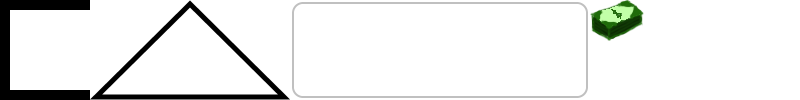
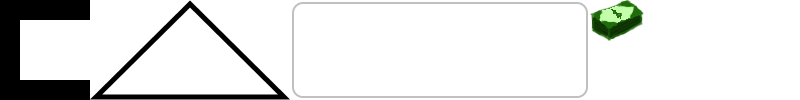
Entities refactor

Changed region(s): [[0.0, 0.09, 0.125, 0.9]]

diff --git a/core/src/com/frontanilla/farminghappyness/game/entities/plants/Plant.java b/core/src/com/frontanilla/farminghappyness/game/entities/plants/Plant.java
@@ -1,14 +1,15 @@
-package com.frontanilla.farminghappyness.game.plants;
+package com.frontanilla.farminghappyness.game.entities.plants;
 
 import com.badlogic.gdx.graphics.Color;
 import com.badlogic.gdx.graphics.g2d.SpriteBatch;
 import com.badlogic.gdx.graphics.g2d.TextureRegion;
 import com.badlogic.gdx.math.Rectangle;
-import com.frontanilla.farminghappyness.game.areas.Tile;
-import com.frontanilla.farminghappyness.game.other.Progressable;
+import com.frontanilla.farminghappyness.components.Tile;
+import com.frontanilla.farminghappyness.game.entities.Progressable;
 import com.frontanilla.farminghappyness.utils.Assets;
 import com.frontanilla.farminghappyness.utils.Enums.PlantType;
 
+import static com.frontanilla.farminghappyness.utils.Constants.PLANT_PRODUCTION_TIME;
 import static com.frontanilla.farminghappyness.utils.Constants.PLANT_SIZE;
 import static com.frontanilla.farminghappyness.utils.Constants.PLANT_TILE_SPACING;
 
@@ -19,8 +20,6 @@ public class Plant extends Progressable {
     // Plant
     private PlantType plantType;
     private int buyCost, sellCost;
-    // Logic
-    private float time;
     // Plants
     public static Plant ELSKER = new Plant(PlantType.ELSKER, 1, 2);
     public static Plant GRA = new Plant(PlantType.GRA, 1, 2);
@@ -34,7 +33,7 @@ public class Plant extends Progressable {
     public static Plant KAERLIGHED = new Plant(PlantType.KAERLIGHED, 1, 5);
 
     private Plant(PlantType plantType, int buyCost, int sellCost) {
-        super(new Rectangle());
+        super(new Rectangle(), PLANT_PRODUCTION_TIME);
         switch (plantType) {
             case ELSKER:
                 textureRegion = Assets.plantTest;
@@ -73,7 +72,7 @@ public class Plant extends Progressable {
     }
 
     public Plant(Plant plant, Tile tile) {
-        super(new Rectangle(tile.getX() + PLANT_TILE_SPACING, tile.getY() + PLANT_TILE_SPACING, PLANT_SIZE, PLANT_SIZE));
+        super(new Rectangle(tile.getX() + PLANT_TILE_SPACING, tile.getY() + PLANT_TILE_SPACING, PLANT_SIZE, PLANT_SIZE), PLANT_PRODUCTION_TIME);
         // Structure
         textureRegion = plant.textureRegion;
         // Plant
@@ -81,12 +80,11 @@ public class Plant extends Progressable {
         buyCost = plant.buyCost;
         sellCost = plant.sellCost;
         // Logic
-        time = 0;
+        progress = 0;
     }
 
     public void update(float delta) {
-        time += delta;
-        progress = Math.min(progress + 1, 100);
+        progress = Math.min(progress + delta, maxProgress);
     }
 
     public void render(SpriteBatch batch) {

diff --git a/core/src/com/frontanilla/farminghappyness/components/ProgressBar.java b/core/src/com/frontanilla/farminghappyness/components/ProgressBar.java
@@ -2,7 +2,7 @@ package com.frontanilla.farminghappyness.components;
 
 import com.badlogic.gdx.graphics.Color;
 import com.badlogic.gdx.graphics.g2d.SpriteBatch;
-import com.frontanilla.farminghappyness.game.other.Progressable;
+import com.frontanilla.farminghappyness.game.entities.Progressable;
 import com.frontanilla.farminghappyness.utils.Assets;
 
 import static com.frontanilla.farminghappyness.utils.Constants.PROGRESS_BAR_HEIGHT;
@@ -15,7 +15,7 @@ public class ProgressBar {
 
     public ProgressBar(Progressable progressable) {
         this.progressable = progressable;
-        portionWidth = (progressable.getBounds().width - PROGRESS_BAR_SIDES_WIDTH * 2) / 100;
+        portionWidth = (progressable.getBounds().width - PROGRESS_BAR_SIDES_WIDTH * 2) / progressable.getMaxProgress();
     }
 
     public void render(SpriteBatch batch) {
@@ -26,9 +26,9 @@ public class ProgressBar {
                 progressable.getBounds().getY() + progressable.getBounds().height,
                 PROGRESS_BAR_SIDES_WIDTH,
                 PROGRESS_BAR_HEIGHT);
-        // Center TODO, draw this according to Progress
+        // Center
+        batch.setColor(Color.CYAN);
         for (int i = 0; i < progressable.getProgress(); i++) {
-            batch.setColor(Color.CYAN);
             batch.draw(
                     Assets.centerLifeBar,
                     progressable.getBounds().getX() + PROGRESS_BAR_SIDES_WIDTH + portionWidth * i,
@@ -39,7 +39,7 @@ public class ProgressBar {
         // Right side
         batch.draw(
                 Assets.barSides,
-                progressable.getBounds().getX() + progressable.getBounds().width - PROGRESS_BAR_SIDES_WIDTH - portionWidth * (100 - progressable.getProgress()),
+                progressable.getBounds().getX() + PROGRESS_BAR_SIDES_WIDTH + portionWidth * (int) (progressable.getProgress() + 1),
                 progressable.getBounds().getY() + progressable.getBounds().height,
                 PROGRESS_BAR_SIDES_WIDTH,
                 PROGRESS_BAR_HEIGHT);

diff --git a/core/src/com/frontanilla/farminghappyness/game/GameLogic.java b/core/src/com/frontanilla/farminghappyness/game/GameLogic.java
@@ -5,15 +5,15 @@ import com.badlogic.gdx.graphics.Color;
 import com.badlogic.gdx.graphics.GL20;
 import com.badlogic.gdx.math.MathUtils;
 import com.badlogic.gdx.math.Vector3;
-import com.frontanilla.farminghappyness.game.areas.Tile;
+import com.frontanilla.farminghappyness.components.Tile;
 import com.frontanilla.farminghappyness.game.defenses.Defense;
 import com.frontanilla.farminghappyness.game.defenses.Trap;
 import com.frontanilla.farminghappyness.game.defenses.Turret;
 import com.frontanilla.farminghappyness.game.defenses.Wall;
 import com.frontanilla.farminghappyness.game.other.Bullet;
-import com.frontanilla.farminghappyness.game.plants.Plant;
-import com.frontanilla.farminghappyness.game.units.Enemy;
-import com.frontanilla.farminghappyness.game.units.Tourist;
+import com.frontanilla.farminghappyness.game.entities.plants.Plant;
+import com.frontanilla.farminghappyness.game.entities.units.Enemy;
+import com.frontanilla.farminghappyness.game.entities.units.Tourist;
 import com.frontanilla.farminghappyness.utils.Constants;
 import com.frontanilla.farminghappyness.utils.Enums;
 import com.frontanilla.farminghappyness.utils.Util;

diff --git a/core/src/com/frontanilla/farminghappyness/game/entities/Progressable.java b/core/src/com/frontanilla/farminghappyness/game/entities/Progressable.java
@@ -1,21 +1,25 @@
-package com.frontanilla.farminghappyness.game.other;
+package com.frontanilla.farminghappyness.game.entities;
 
 import com.badlogic.gdx.math.Rectangle;
 import com.frontanilla.farminghappyness.components.ProgressBar;
-import com.frontanilla.farminghappyness.game.GameEntity;
 
 public abstract class Progressable extends GameEntity {
 
-    protected float progress;
+    protected float progress, maxProgress;
     protected ProgressBar progressBar;
 
-    public Progressable(Rectangle bounds) {
+    public Progressable(Rectangle bounds, float maxProgress) {
         super(bounds);
+        this.maxProgress = maxProgress;
         progressBar = new ProgressBar(this);
     }
 
     public float getProgress() {
         return progress;
+    }
+
+    public float getMaxProgress() {
+        return maxProgress;
     }
 
     public void setProgress(float progress) {

diff --git a/core/src/com/frontanilla/farminghappyness/utils/Constants.java b/core/src/com/frontanilla/farminghappyness/utils/Constants.java
@@ -100,10 +100,10 @@ public class Constants {
     public static final float TOURIST_SPEED = 50f;
     // Life bars
     public static final float LIFE_BAR_HEIGHT = 3f;
-    public static final float LIFE_BAR_SIDES_WIDTH = (LIFE_BAR_HEIGHT / 10f);
+    public static final float LIFE_BAR_SIDES_WIDTH = (LIFE_BAR_HEIGHT / 3f);
     // Progress bars
     public static final float PROGRESS_BAR_HEIGHT = 3f;
-    public static final float PROGRESS_BAR_SIDES_WIDTH = (PROGRESS_BAR_HEIGHT / 10f);
+    public static final float PROGRESS_BAR_SIDES_WIDTH = (PROGRESS_BAR_HEIGHT / 3f);
     // Resource frames
     public static final float RESOURCE_FRAME_WIDTH = Gdx.graphics.getWidth() / 6f;
     public static final float RESOURCE_FRAME_HEIGHT = RESOURCE_FRAME_WIDTH / 3f;

diff --git a/core/src/com/frontanilla/farminghappyness/game/GameConnector.java b/core/src/com/frontanilla/farminghappyness/game/GameConnector.java
@@ -7,10 +7,10 @@ import com.badlogic.gdx.graphics.g2d.Batch;
 import com.badlogic.gdx.graphics.g2d.SpriteBatch;
 import com.frontanilla.farminghappyness.components.Button;
 import com.frontanilla.farminghappyness.game.areas.DisplayArea;
-import com.frontanilla.farminghappyness.game.areas.Tile;
+import com.frontanilla.farminghappyness.components.Tile;
 import com.frontanilla.farminghappyness.game.defenses.Turret;
 import com.frontanilla.farminghappyness.game.other.Bullet;
-import com.frontanilla.farminghappyness.game.units.Enemy;
+import com.frontanilla.farminghappyness.game.entities.units.Enemy;
 import com.frontanilla.farminghappyness.tests.MyCamera;
 import com.frontanilla.farminghappyness.utils.Assets;
 

diff --git a/core/src/com/frontanilla/farminghappyness/game/entities/units/Enemy.java b/core/src/com/frontanilla/farminghappyness/game/entities/units/Enemy.java
@@ -1,4 +1,4 @@
-package com.frontanilla.farminghappyness.game.units;
+package com.frontanilla.farminghappyness.game.entities.units;
 
 import com.badlogic.gdx.graphics.Color;
 import com.badlogic.gdx.graphics.g2d.SpriteBatch;
@@ -7,7 +7,7 @@ import com.badlogic.gdx.math.MathUtils;
 import com.badlogic.gdx.math.Rectangle;
 import com.badlogic.gdx.utils.DelayedRemovalArray;
 import com.frontanilla.farminghappyness.game.defenses.Defense;
-import com.frontanilla.farminghappyness.game.other.Damageable;
+import com.frontanilla.farminghappyness.game.entities.Damageable;
 import com.frontanilla.farminghappyness.utils.Enums;
 import com.frontanilla.farminghappyness.utils.Point;
 

diff --git a/core/src/com/frontanilla/farminghappyness/utils/Assets.java b/core/src/com/frontanilla/farminghappyness/utils/Assets.java
@@ -111,9 +111,9 @@ public class Assets {
         //------------------
         Texture hud = new Texture("images/hud.png");
         // Life bar
-        barSides = new TextureRegion(hud, 0, 0, 10, 100);
-        centerLifeBar = new TextureRegion(hud, 50, 0, 40, 100);
-        centerEmptyLifeBar = new TextureRegion(hud, 10, 0, 40, 100);
+        barSides = new TextureRegion(hud, 0, 0, 20, 100);
+        centerLifeBar = new TextureRegion(hud, 55, 0, 35, 100);
+        centerEmptyLifeBar = new TextureRegion(hud, 20, 0, 35, 100);
         // Construction menu
         triangle = new TextureRegion(hud, 90, 0, 200, 100);
         // Resource frame

diff --git a/core/src/com/frontanilla/farminghappyness/game/defenses/Turret.java b/core/src/com/frontanilla/farminghappyness/game/defenses/Turret.java
@@ -3,9 +3,9 @@ package com.frontanilla.farminghappyness.game.defenses;
 import com.badlogic.gdx.graphics.Color;
 import com.badlogic.gdx.graphics.g2d.SpriteBatch;
 import com.badlogic.gdx.math.Rectangle;
-import com.frontanilla.farminghappyness.game.areas.Tile;
+import com.frontanilla.farminghappyness.components.Tile;
 import com.frontanilla.farminghappyness.game.other.Bullet;
-import com.frontanilla.farminghappyness.game.units.Enemy;
+import com.frontanilla.farminghappyness.game.entities.units.Enemy;
 import com.frontanilla.farminghappyness.utils.Assets;
 import com.frontanilla.farminghappyness.utils.Point;
 

diff --git a/core/src/com/frontanilla/farminghappyness/game/GameState.java b/core/src/com/frontanilla/farminghappyness/game/GameState.java
@@ -4,8 +4,8 @@ import com.badlogic.gdx.utils.DelayedRemovalArray;
 import com.frontanilla.farminghappyness.game.areas.FarmingArea;
 import com.frontanilla.farminghappyness.game.defenses.Defense;
 import com.frontanilla.farminghappyness.game.other.Bullet;
-import com.frontanilla.farminghappyness.game.plants.Plant;
-import com.frontanilla.farminghappyness.game.units.Enemy;
+import com.frontanilla.farminghappyness.game.entities.plants.Plant;
+import com.frontanilla.farminghappyness.game.entities.units.Enemy;
 
 public class GameState {
 

diff --git a/core/src/com/frontanilla/farminghappyness/game/other/Bullet.java b/core/src/com/frontanilla/farminghappyness/game/other/Bullet.java
@@ -3,7 +3,7 @@ package com.frontanilla.farminghappyness.game.other;
 import com.badlogic.gdx.graphics.Color;
 import com.badlogic.gdx.graphics.g2d.SpriteBatch;
 import com.badlogic.gdx.math.MathUtils;
-import com.frontanilla.farminghappyness.game.units.Enemy;
+import com.frontanilla.farminghappyness.game.entities.units.Enemy;
 import com.frontanilla.farminghappyness.utils.Assets;
 import com.frontanilla.farminghappyness.utils.Point;
 import com.frontanilla.farminghappyness.utils.Util;

diff --git a/core/src/com/frontanilla/farminghappyness/components/Tile.java b/core/src/com/frontanilla/farminghappyness/components/Tile.java
@@ -1,8 +1,8 @@
-package com.frontanilla.farminghappyness.game.areas;
+package com.frontanilla.farminghappyness.components;
 
 import com.badlogic.gdx.graphics.g2d.TextureRegion;
 import com.frontanilla.farminghappyness.components.NinePatcherButton;
-import com.frontanilla.farminghappyness.game.GameEntity;
+import com.frontanilla.farminghappyness.game.entities.GameEntity;
 import com.frontanilla.farminghappyness.utils.Enums;
 
 public class Tile extends NinePatcherButton {
